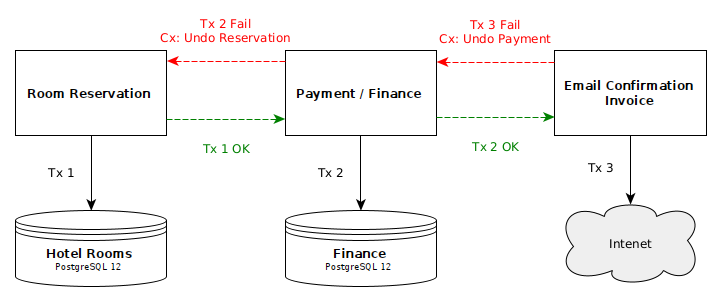
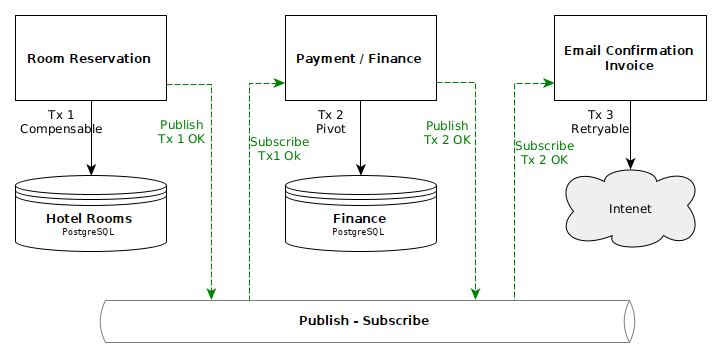
sagas

diff --git a/arch-distri.html b/arch-distri.html
@@ -159,45 +159,48 @@ same team, to avoid distributed transactions.
         <p class="fragment">En las arquitecturas distribuidas el sistema es particionado en <u>aplicaciones
             simples</u> donde cada una se deploya en su <u>propio contenedor</u>, el cual corre en su <u>propio
             proceso</u> y se comunican entre ellas enviándose mensajes a través de la <u>red</u>.</p>
-<!--         <p class="fragment">¿Crearon algun sistema distribuído?</p> -->
       </section>
 
       <section id="vs">
         <p class="resaltar">Arquitecturas Distribuídas</p>
-        <p class="chico fragment">Las complicaciones de las arquitecturas distribuídas se dan en todos los casos, pero
-          tenemos que tenerlas presente principalmente cuando distribuímos el backend de una aplicación.</p>
         <img class="fragment" src="imgs/rest-call.png">
+        <!-- Entre la App y la BD tambien hay inter-process pero el 
+                  driver de BD se encarga de manejar esa comunicacion -->
       </section>
-      <!-- width="678" height="518" -->
 
       <section id="vs">
         <p class="resaltar">Arquitecturas Distribuídas</p>
         <p class="chico">¿Porqué distribuir?</p>
         <p class="fragment">Para mejorar la performance, la escalabilidad y la disponibilidad de un servicio.</p>
-        <p class="fragment">La arquitectura de microservicios es la vedette de moda hoy.</p>
-        <p class="fragment">¡ojo! Esto no significa que utilizar microservicios siempre sea nuestra mejor opción.</p>
+        <p class="fragment">En microservicios se suma la posibilidad de escalar equipos de desarrollos grandes.</p>
       </section>
 
+      <section id="vs">
+        <p class="resaltar">Arquitecturas Distribuídas</p>
+        <p class="chico fragment" data-fragment-index="1">Pero... como toda decisión de diseño, <u>tiene complicaciones</u>.</p>
+        <p class="chico fragment" data-fragment-index="2">Complicación 1: <u>Fallas Parciales</u>.</p>
+        <p class="chico fragment" data-fragment-index="3">Complicación 2: <span class="chico fragment" data-fragment-index="4">Adios</span> <span class="chico fragment" data-fragment-index="5">a</span> <span class="chico fragment" data-fragment-index="6">las</span>  <span class="chico fragment" data-fragment-index="7"><u>Transacciones</u> tal como las conocemos de las BDs relacionales.</span></p>
+      </section>
+
+      
       <section id="fp">
         <p class="resaltar">Arquitecturas Distribuídas</p>
-        <p class="chico">Distribuir una aplicación agrega complicaciones, una de ellas se conoce como: <u>Fallas
-            Parciales</p></u></p>
-        <p class="chico fragment">Cuando ejecutamos una aplicación en una única máquina su comportamiento es predecible.
+        <p class="chico"><u>Fallas Parciales</p></u></p>
+        <p class="chico fragment">"Cuando ejecutamos una aplicación en una única máquina su comportamiento es predecible.
           Si el hardware donde corre funciona, la aplicación ante las mismas entradas producirá siempre las mismas
-          salidas. Si el hardware donde corre fallara por algún motivo, la aplicación completa dejaría de funcionar. Es
-          decir, una aplicación en una única máquina funciona o no funciona, pero no existe nada en el medio (quitando
-          de la ecuación posibles bugs que la aplicación podría tener).</p>
+          salidas. Si el hardware donde corre fallara por algún motivo, la aplicación completa dejaría de funcionar (<u>Falla Total</u>). Es
+          decir, una aplicación en una única máquina funciona o no funciona, pero no existe nada en el medio".</p>
       </section>
 
       <section id="fp">
         <p class="resaltar">Arquitecturas Distribuídas</p>
-        <p class="chico">Distribuir una aplicación agrega complicaciones, una de ellas se conoce como: <u>Fallas
-            Parciales</p></u></p>
-        <p class="chico fragment">Las aplicaciones distribuidas se conforman de varios elementos que podrían fallar. La
+        <p class="chico"><u>Fallas Parciales</p></u></p> 
+        <p class="chico fragment">"Las aplicaciones distribuidas se conforman de varios elementos que podrían fallar. La
           red, junto a toda su complejidad, más las máquinas donde corra la aplicación son parte del mismo sistema.
           Cualquiera de alguno de estos elementos (equipos, dispositivos de red como routers, switches, etc) que forman
           parte de un sistema distribuido podría fallar mientras que el resto de los elementos podrían seguir
-          funcionando. Esto se conoce como <u>falla parcial</u>.</p>
+          funcionando. Esto se conoce como <u>falla parcial</u>".</p>
+        <p class="chico fragment"><a href="https://www.amazon.com/-/es/Martin-Kleppmann/dp/1449373321/">Designing Data-Intensive Applications (Martin Kleppmann)</a></p>
         <p class="chico fragment">Inconvenientes frecuentemente ignorados: <a
             href="https://en.wikipedia.org/wiki/Fallacies_of_distributed_computing">Falacias</a> de los sistemas
           distribuidos.</p>
@@ -216,7 +219,7 @@ same team, to avoid distributed transactions.
       <section id="fp">
         <p class="resaltar">Arquitecturas Distribuídas: La red no es confiable!</p>
         <p class="chico fragment">¿Cómo lideamos con fallas parciales?</p>
-        <p class="chico fragment">Timeouts, Idempotencia, deduplicación</p>
+        <p class="chico fragment">Timeouts e Idempotencia</p>
       </section>
 
       <section id="tx">
@@ -233,8 +236,21 @@ same team, to avoid distributed transactions.
         <p class="chico fragment">Requerimiento: Al persistir una nueva venta debo enviarle un mail el comprador con la factura.</p>
         <p class="chico fragment">Servicio Ventas y Servicio de Notificación/Email.</p>
         <p class="chico fragment">Requerimiento No Funcional: Si vendo, el mail debe salir no puede fallar.</p>
-<!--         <p class="chico fragment">Por mas que el envio de email este en el mismo servicio que la venta, igual estoy lideando con el servicio de email que no es ACID.</p> -->
+<!--    Por mas que el envio de email este en el mismo servicio que la venta, 
+          igual estoy lideando con el servicio de email que no es ACID.</p> -->
       </section>
+
+      <section id="tx">
+        <p class="resaltar">Arquitecturas Distribuídas: Transacciones</p>
+        <p class="chico fragment">Caso 1 (simple, dos servicios controlados por mi)</p>
+        <p class="chico fragment">Esto puede pasar en sistemas monolíticos, porque para enviar un mail necesito comunicarme con un servicio SMTP.</p>
+        <p class="chico fragment">El servicio SMTP no es Transaccional con respecto a la persistencia de la Venta.</p>
+        <p class="chico fragment"><u>Outbox Pattern</u>: Aprovecho la Tx local de persistir la venta para dejar un job en un tabla "queue".</p> 
+        <p class="chico fragment"><u>Eventual Consistency</u> vs Strong Consistency</p>
+<!--    Por mas que el envio de email este en el mismo servicio que la venta, 
+          igual estoy lideando con el servicio de email que no es ACID.</p> -->
+      </section>
+
 
       <section id="tx">
         <p class="resaltar">Arquitecturas Distribuídas: Transacciones</p>
@@ -248,13 +264,19 @@ same team, to avoid distributed transactions.
         <!-- Los medios de pago debe ofrecer servicios de compensaciones --> 
       </section>
 
-      <section id="tx">
+      <section id="tx" data-transition="fade-out">
         <p class="resaltar">Arquitecturas Distribuídas</p>
-        <p class="chico fragment">Otro inconveniente: No tengo Transacciones!</p>
+        <p class="chico fragment">SAGAS</p>
         <p class="chico fragment">Consistencia Eventual</p>
         <img class="fragment" src="imgs/sagas.png">
       </section>
 
+      <section id="tx" data-transition="fade-in">
+        <p class="resaltar">Arquitecturas Distribuídas</p>
+        <p class="chico">SAGAS</p>
+        <p class="chico">Consistencia Eventual</p>
+        <img src="imgs/sagas2.png">
+      </section>
 
       <section id="mic">
         <p class="resaltar">Microservicios</p>
